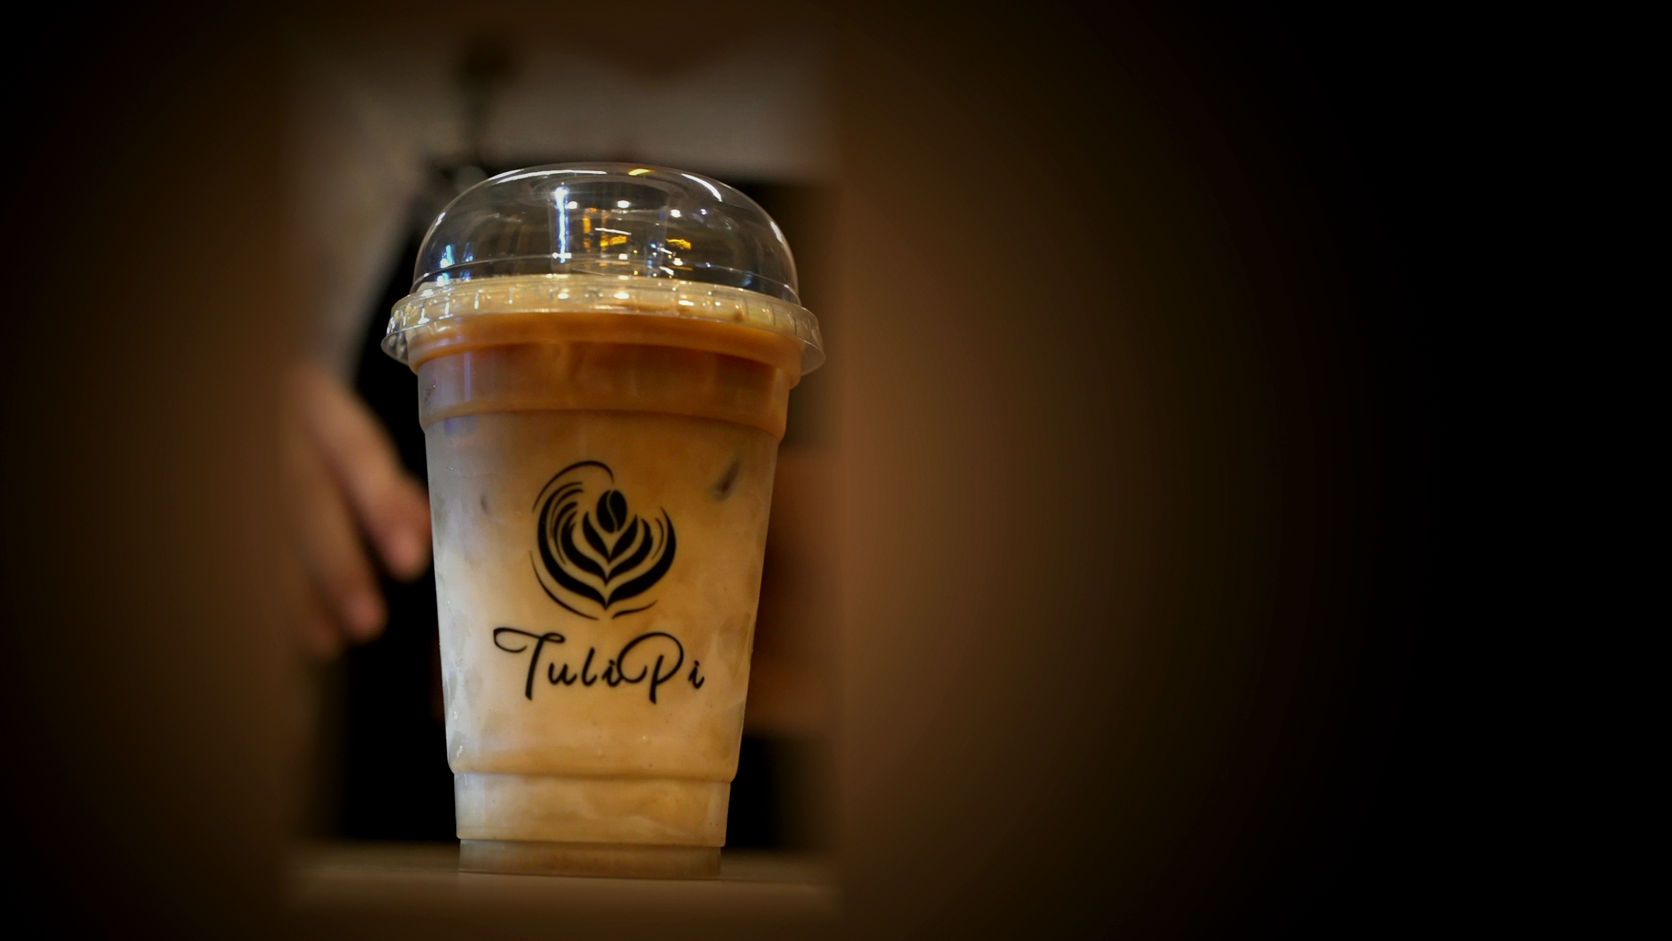
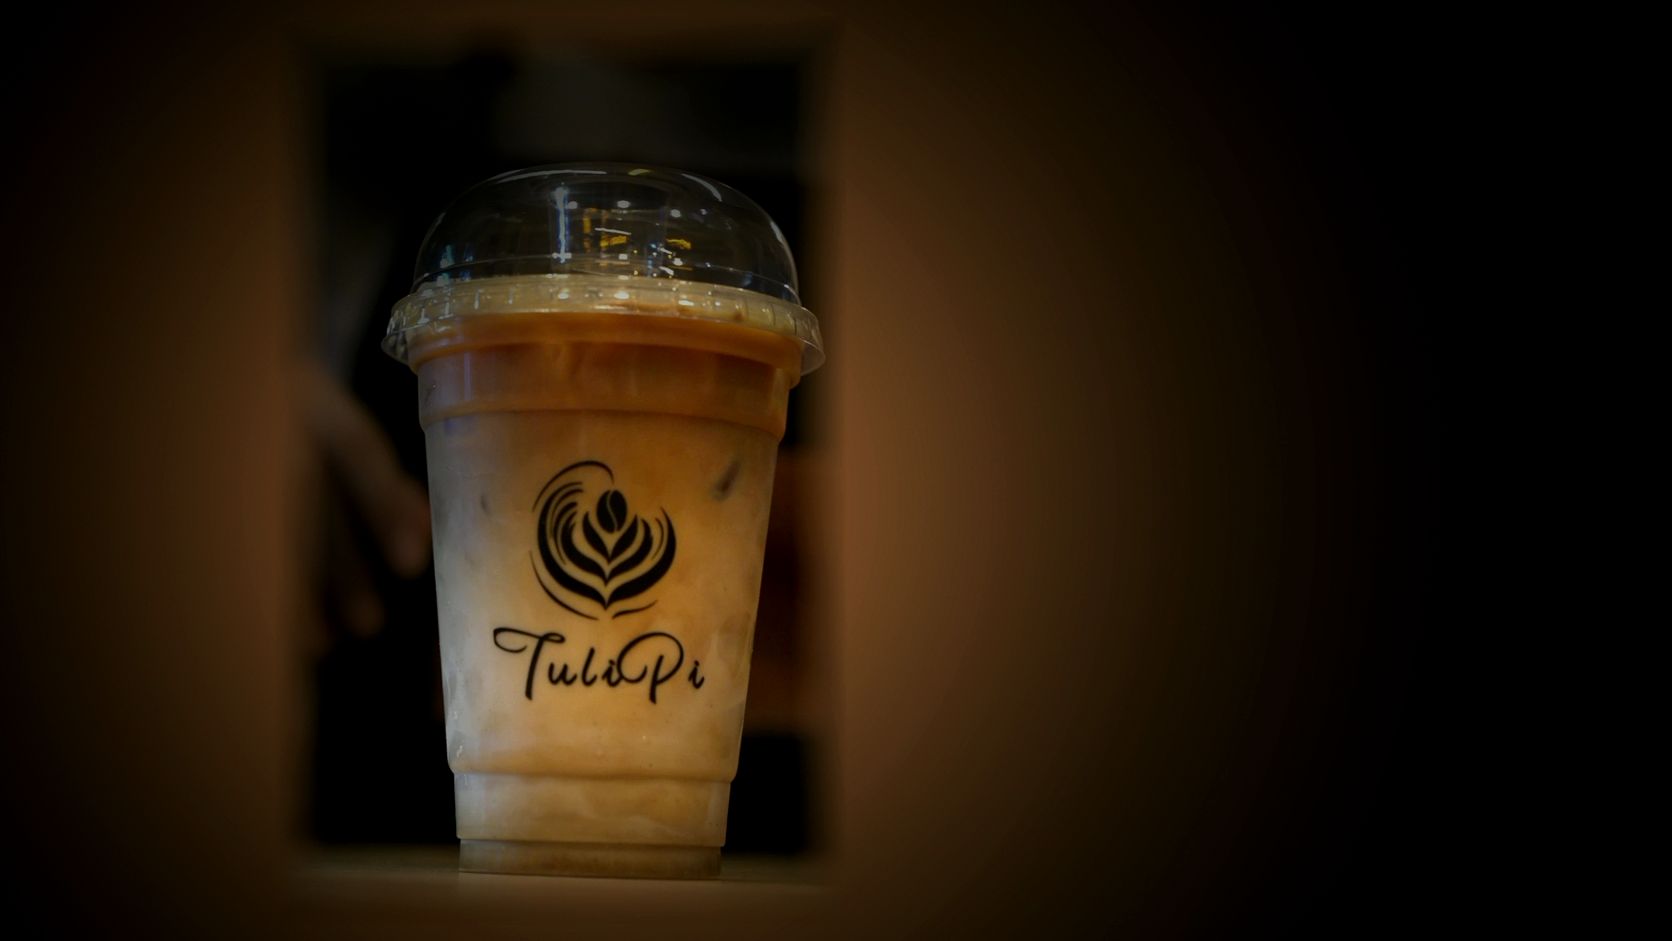
TV menu E1 Sahne 1: personel siluetleri karanliga gomuldu + sure 6sn->8sn
- Hero panelinde bardak-merkezli isik adasi + hedefli lokal karartma (gomlek/kol/ust-sag leke)
  -> arka plandaki personel premium algiyi kirmiyor
- Sahne suresi 8sn; acilis animasyonlari (drift/logo/baslik/altyazi) 8sn'e orantili uzatildi

Changed region(s): [[0.1555, 0.0308, 0.4976, 0.9554]]

diff --git a/tv_menu_api.py b/tv_menu_api.py
@@ -888,13 +888,13 @@ body.opening-active #logoBadge,body.opening-active #screenMeta{opacity:0}
 @keyframes bardakReveal{0%,38%{opacity:0;transform:translateY(1.6vh)}55%,100%{opacity:1;transform:none}}
 .bardakBg{position:absolute;inset:0;width:100%;height:100%;object-fit:cover;z-index:0;animation:kenBurns 7s ease-out forwards;filter:saturate(1.12) contrast(1.06) brightness(.86)}
 .bardakInfo{position:relative;z-index:2;opacity:0;animation:bardakReveal 7s ease forwards}
-.openingBg{position:absolute;inset:0;width:100%;height:100%;object-fit:cover;z-index:0;animation:openingDrift 6s ease-out forwards;transform-origin:42% 54%;backface-visibility:hidden}
+.openingBg{position:absolute;inset:0;width:100%;height:100%;object-fit:cover;z-index:0;animation:openingDrift 8s ease-out forwards;transform-origin:42% 54%;backface-visibility:hidden}
 .openingShade{position:absolute;inset:0;z-index:1;background:linear-gradient(90deg,rgba(0,0,0,.02) 0%,rgba(0,0,0,.1) 42%,rgba(0,0,0,.34) 72%,rgba(0,0,0,.56) 100%)}
 .openingCopy{position:absolute;z-index:2;right:7.8vw;top:16.5vh;width:38vw;display:flex;flex-direction:column;align-items:center;text-align:center;color:var(--cream)}
-.openingLogo{width:13.5vw;max-height:23vh;object-fit:contain;opacity:0;mix-blend-mode:screen;filter:drop-shadow(0 1vh 2.8vh #000b);animation:openingLogoIn 6s ease forwards}
-.openingTitle{margin-top:3vh;font-family:'Fraunces',serif;font-size:6.2vh;line-height:.94;font-weight:400;letter-spacing:.02vw;color:#efe6d6;text-shadow:0 .45vh 2.4vh #000;opacity:0;animation:openingTitleIn 6s ease forwards}
+.openingLogo{width:13.5vw;max-height:23vh;object-fit:contain;opacity:0;mix-blend-mode:screen;filter:drop-shadow(0 1vh 2.8vh #000b);animation:openingLogoIn 8s ease forwards}
+.openingTitle{margin-top:3vh;font-family:'Fraunces',serif;font-size:6.2vh;line-height:.94;font-weight:400;letter-spacing:.02vw;color:#efe6d6;text-shadow:0 .45vh 2.4vh #000;opacity:0;animation:openingTitleIn 8s ease forwards}
 .openingTitle span{display:block}
-.openingSub{margin-top:2.2vh;font-size:2vh;letter-spacing:.05vw;color:#6fb084;opacity:0;animation:openingSubIn 6s ease forwards}
+.openingSub{margin-top:2.2vh;font-size:2vh;letter-spacing:.05vw;color:#6fb084;opacity:0;animation:openingSubIn 8s ease forwards}
 @keyframes openingDrift{0%{transform:scale(1.02) translateX(-1.2vw)}100%{transform:scale(1.09) translateX(.4vw)}}
 @keyframes openingLogoIn{0%,30%{opacity:0;transform:translateY(1.2vh)}43%,100%{opacity:.96;transform:none}}
 @keyframes openingTitleIn{0%,58%{opacity:0;transform:translateY(1.8vh)}72%,100%{opacity:1;transform:none}}
@@ -1180,7 +1180,7 @@ function build(data,sig){
   var heroPages=[],ekran1Pages=[],ekran3Pages=[];
 
   // 1) EKRAN 1 AÇILIŞ — premium bardak hero; fiyat yok, eski bardak/fiyat alanı tamamen kaldırıldı
-  var bOpen=el("div","pg heroPg openingPg");bOpen.dataset.t=6000;bOpen.dataset.roles="1";
+  var bOpen=el("div","pg heroPg openingPg");bOpen.dataset.t=8000;bOpen.dataset.roles="1";
   bOpen.innerHTML='<img class="openingBg" src="/tv-menu/hero/opening" alt="">'
     +'<div class="openingShade"></div>'
     +'<div class="openingCopy"><img class="openingLogo" src="/tv-menu/logo" alt="">'
